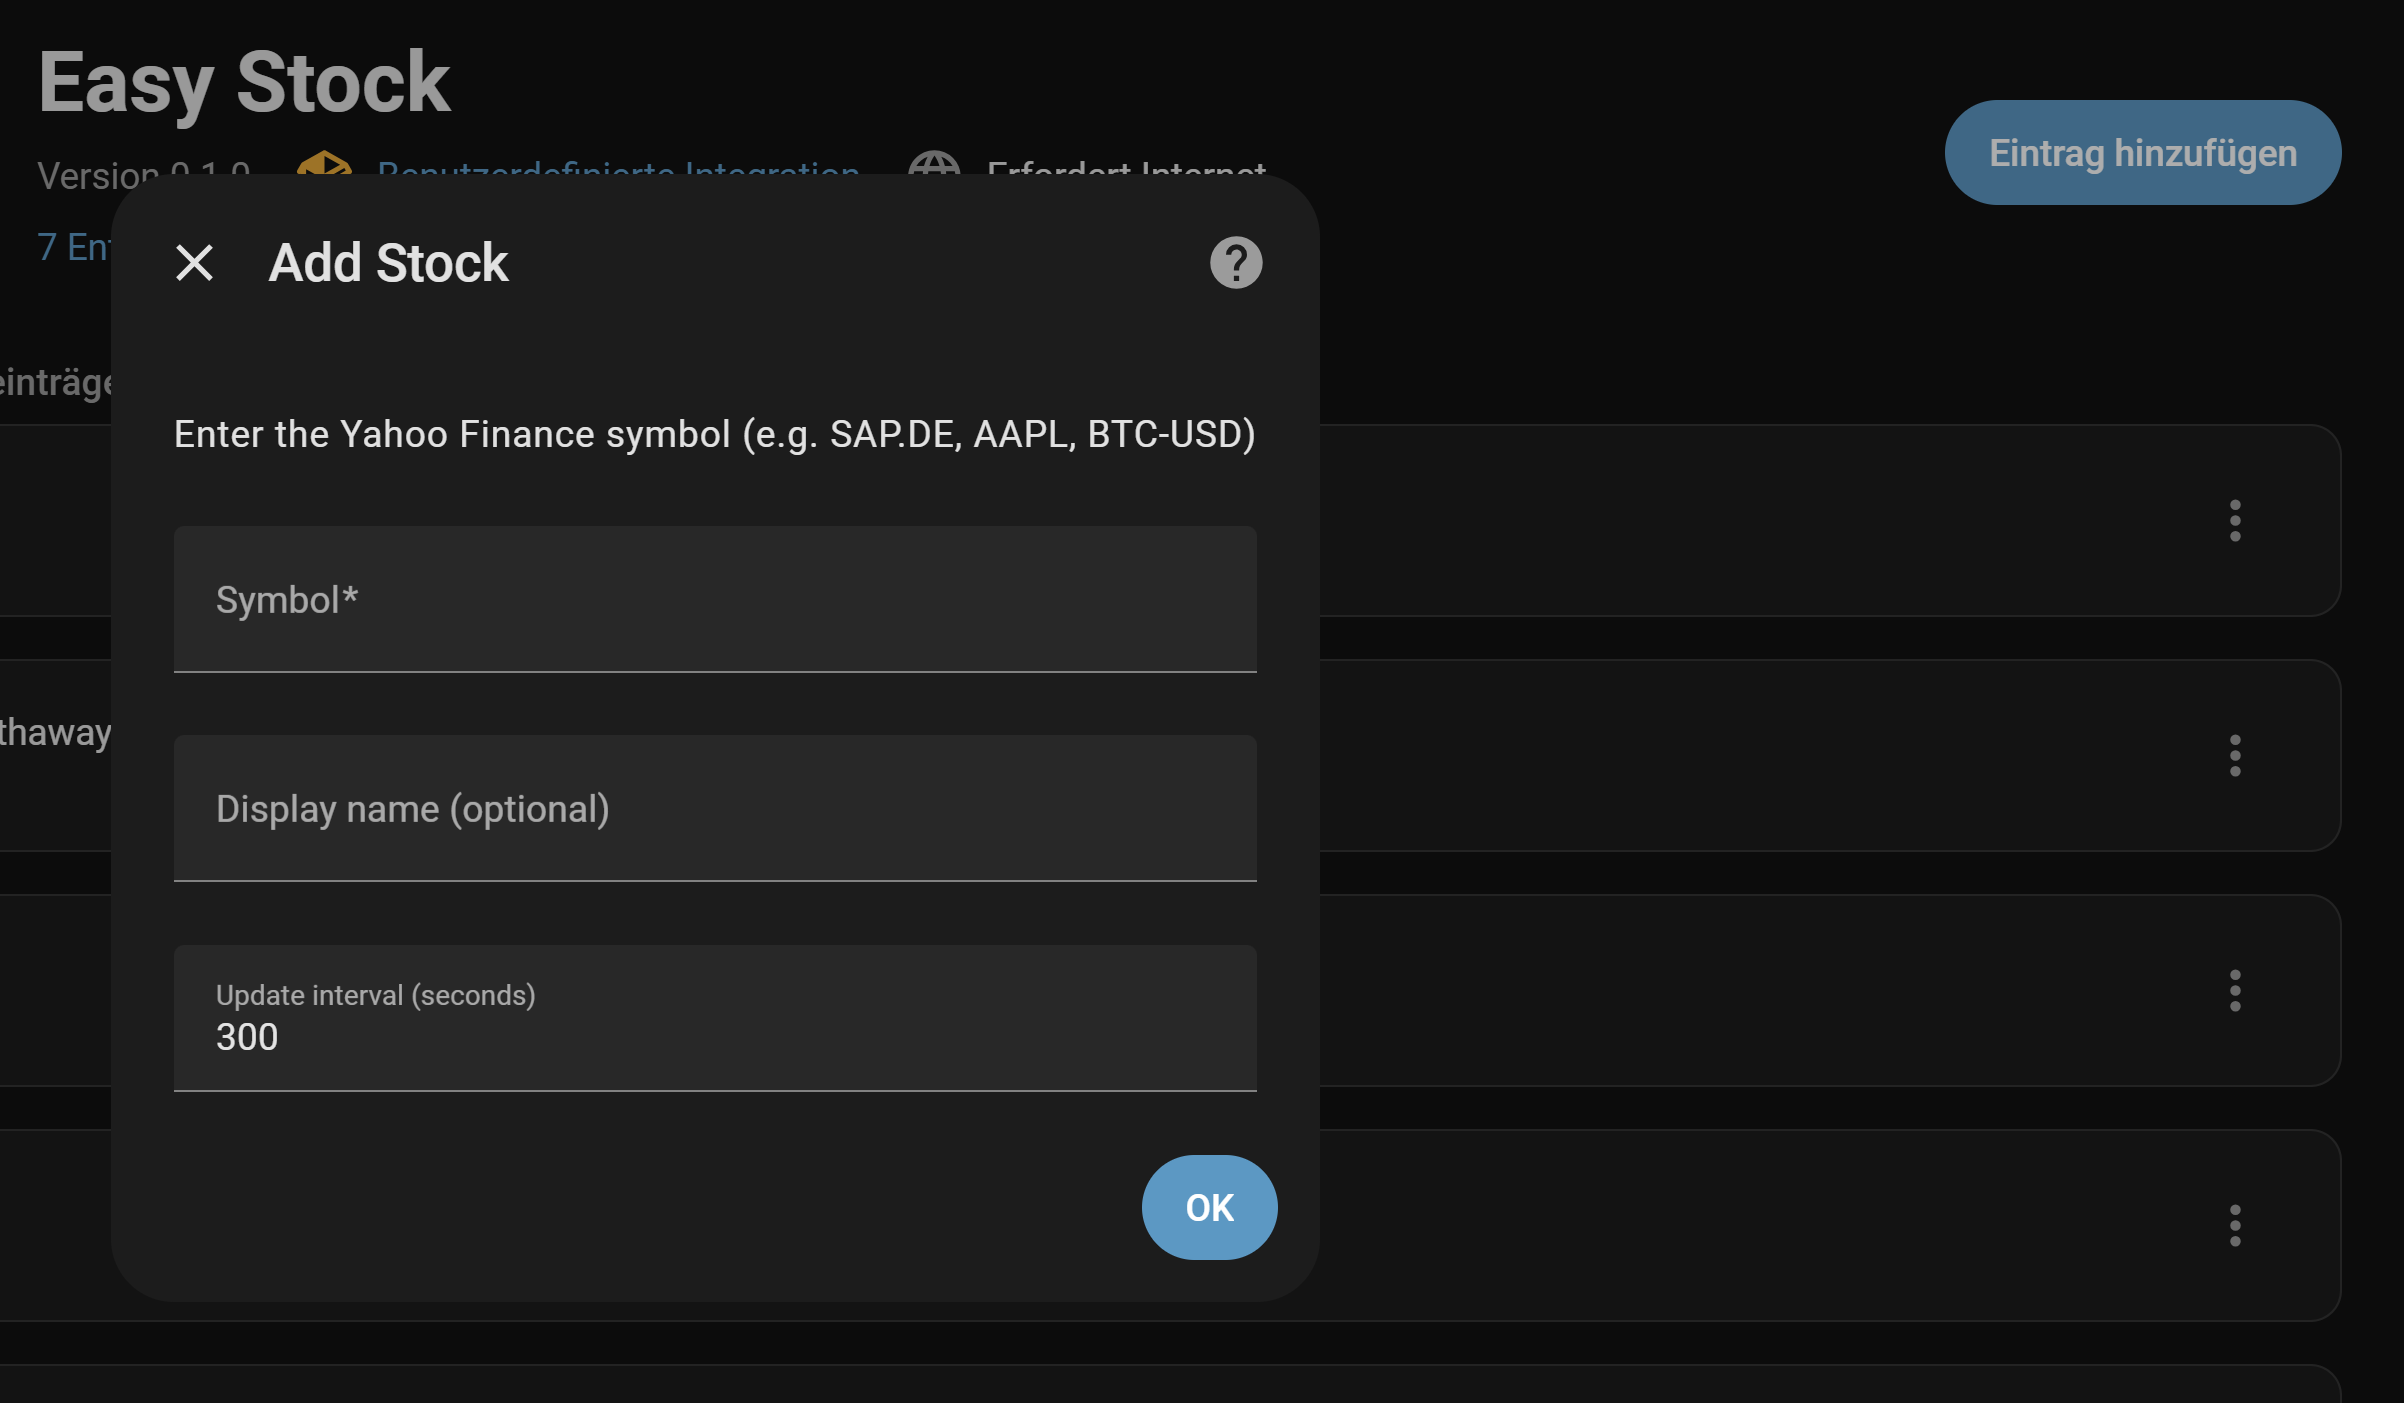
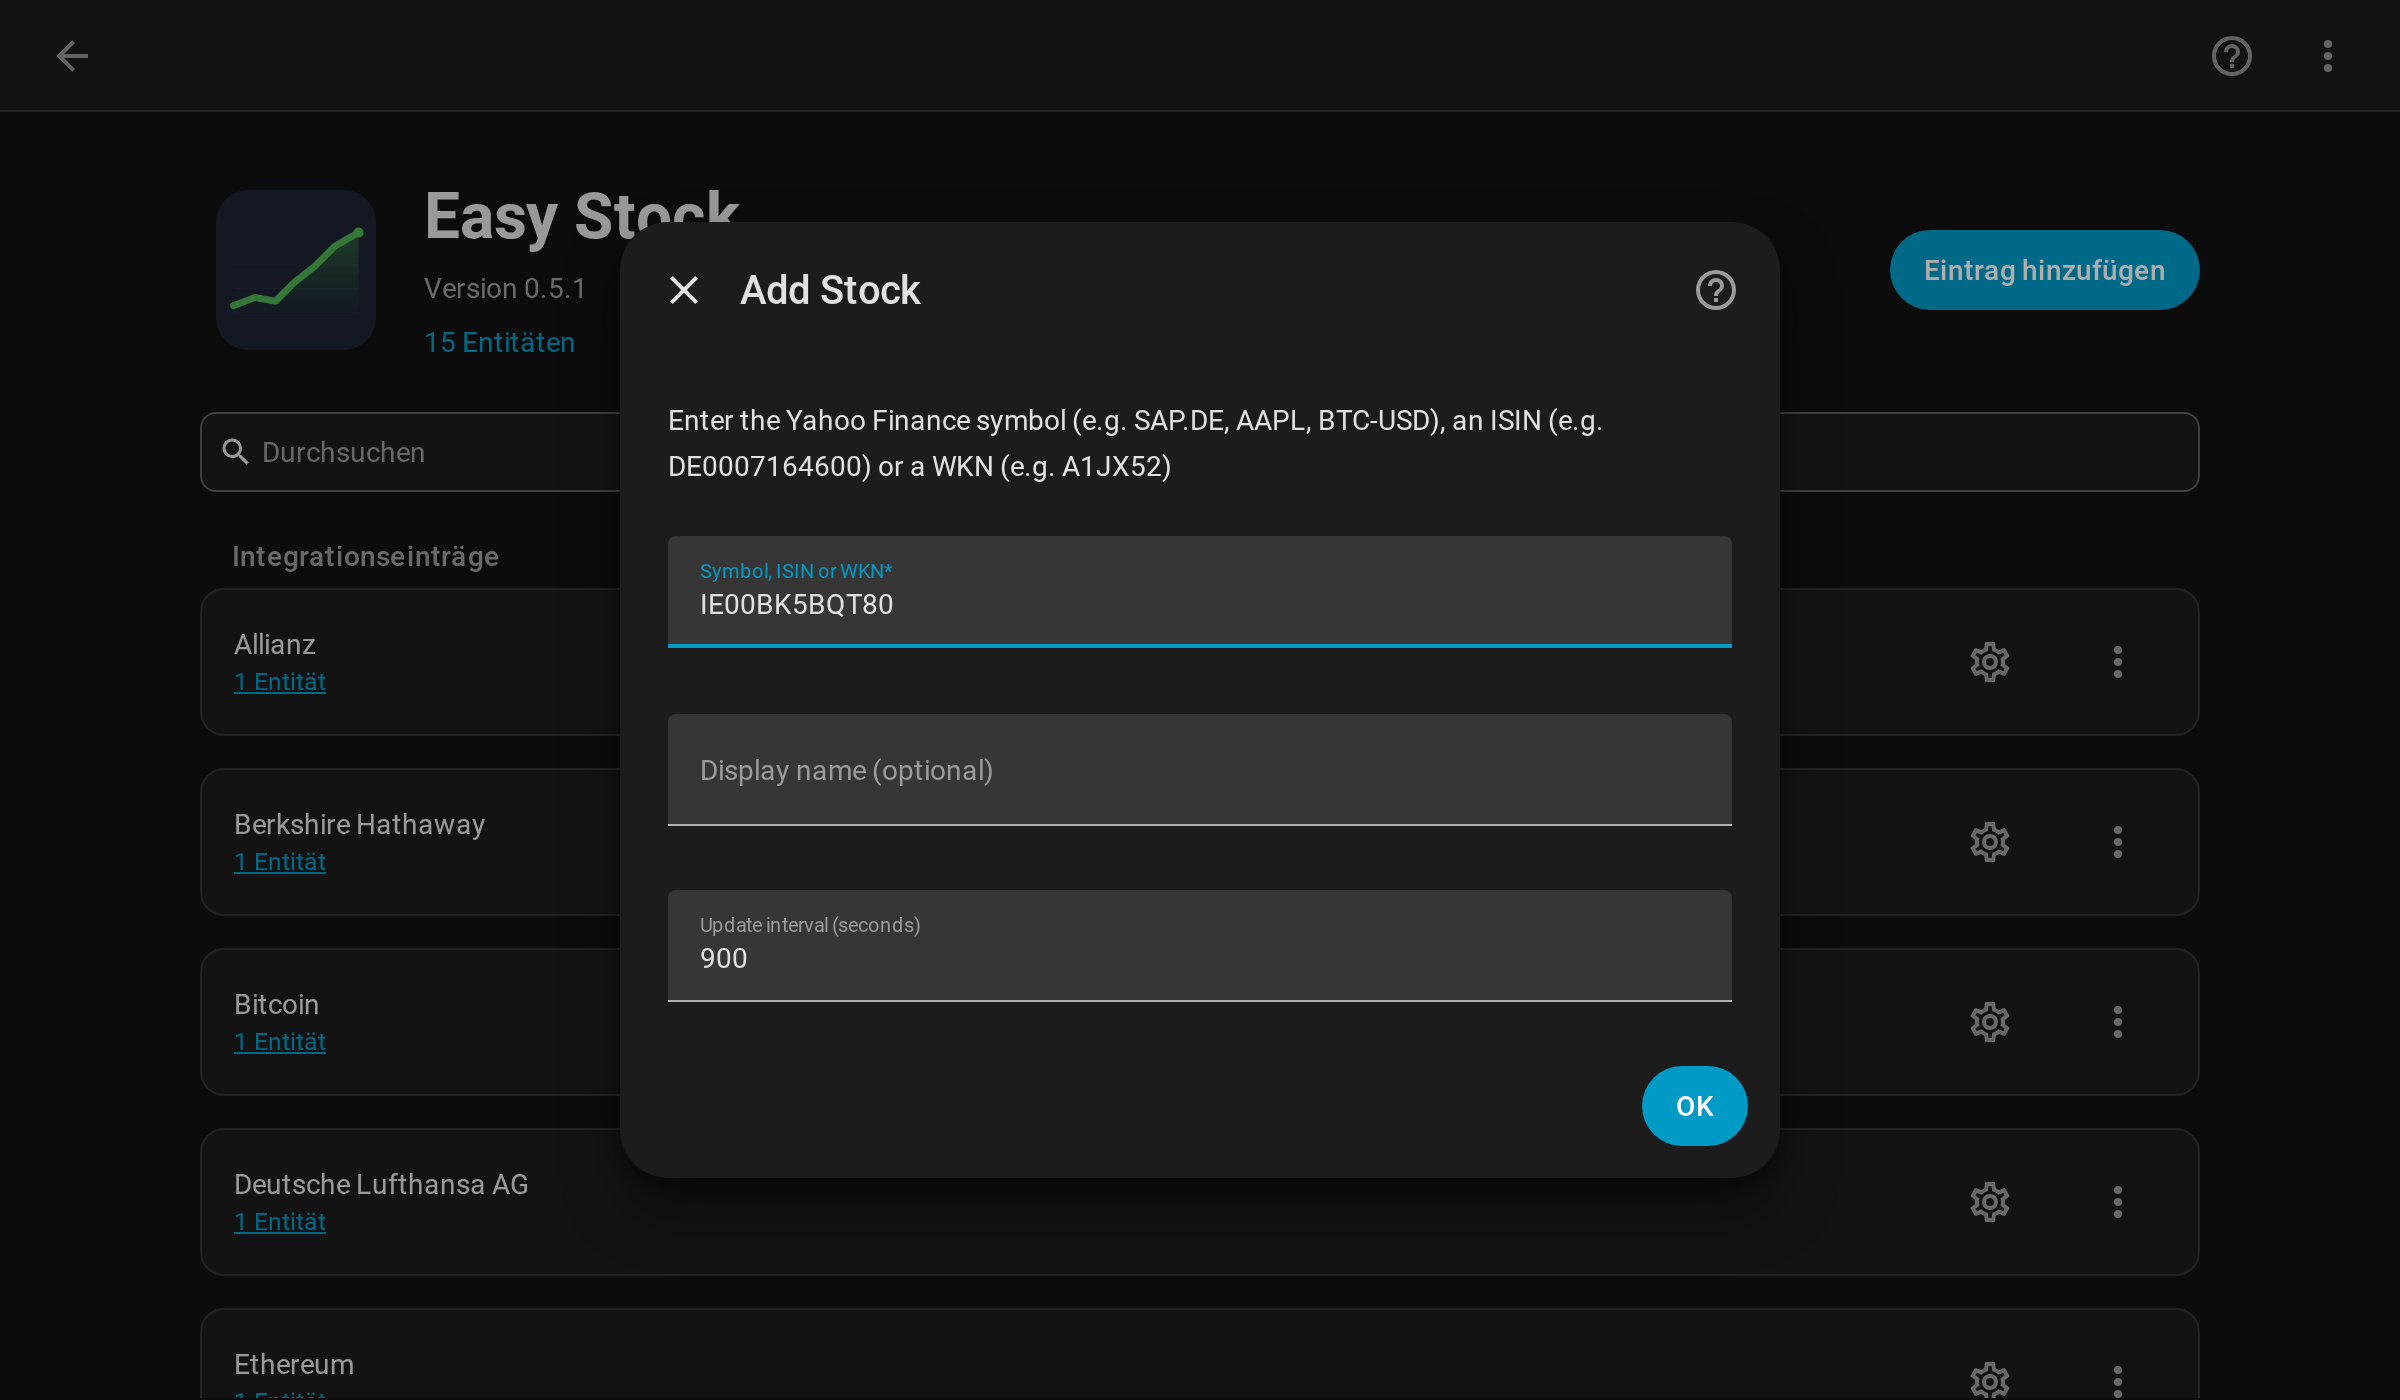
Show the ISIN entry and the listing picker in the README screenshots
The setup screenshot still showed the old "Symbol" field. Replace it with the
form taking an ISIN, add the listing picker below the ISIN/WKN section, and
note that the picker always appears when an exchange did not answer.

diff --git a/README.md b/README.md
@@ -147,10 +147,12 @@ The first field also takes an ISIN or a WKN, so you do not need to know the Yaho
 | WKN (6 characters) | `A1JX52` | Vanguard FTSE All-World |
 
 - Easy Stock looks up where the security trades through [OpenFIGI](https://www.openfigi.com) and checks every listing against Yahoo Finance. Listings without a usable history (a single day of data, or no trade for weeks) are left out.
-- If it trades on several exchanges, you pick the listing in a second step. Listings in your Home Assistant currency and on your country's home exchange come first and the first one is preselected — XETRA in EUR for a German setup, London in GBP for a UK one.
+- If it trades on several exchanges, you pick the listing in a second step. Listings in your Home Assistant currency and on your country's home exchange come first and the first one is preselected — XETRA in EUR for a German setup, London in GBP for a UK one. If some exchanges did not answer, you always get this step, with a note that the list may be incomplete.
 - If OpenFIGI does not answer, an ISIN falls back to Yahoo's own search.
 - Input that no lookup resolves is treated as a Yahoo ticker. If Yahoo does not know it either, the form shows an error instead of creating a sensor that never gets a price.
 - Only the resolved ticker is stored, so currency and exchange follow the listing you chose.
+
+![Select listing](https://raw.githubusercontent.com/derspe/ha-easy-stock/main/assets/screenshot-listing.png)
 
 > **Privacy:** the ISIN or WKN you type is sent to OpenFIGI (a free identifier service by Bloomberg) for the lookup — nothing else is.
 
